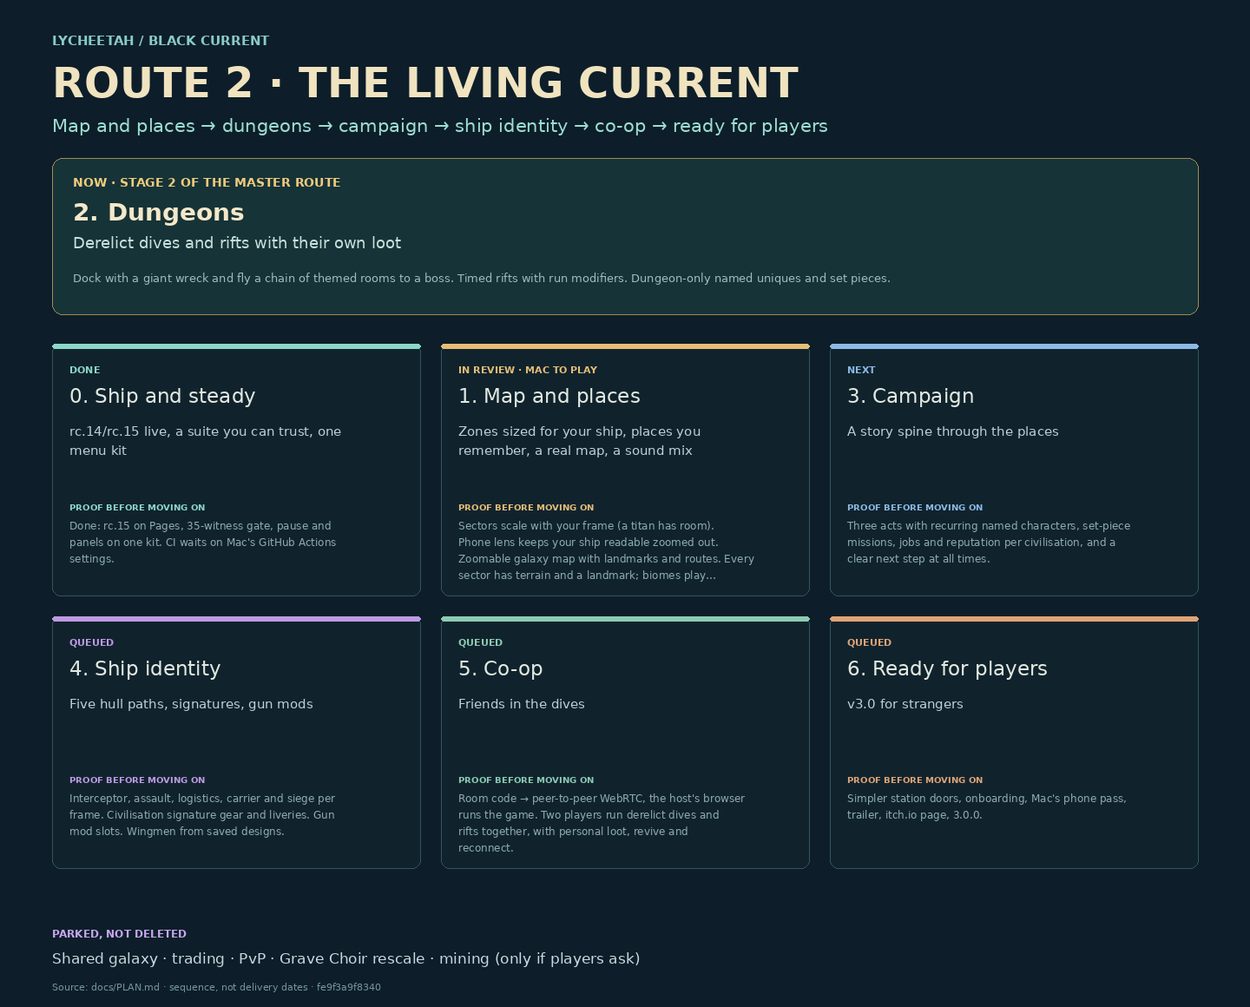
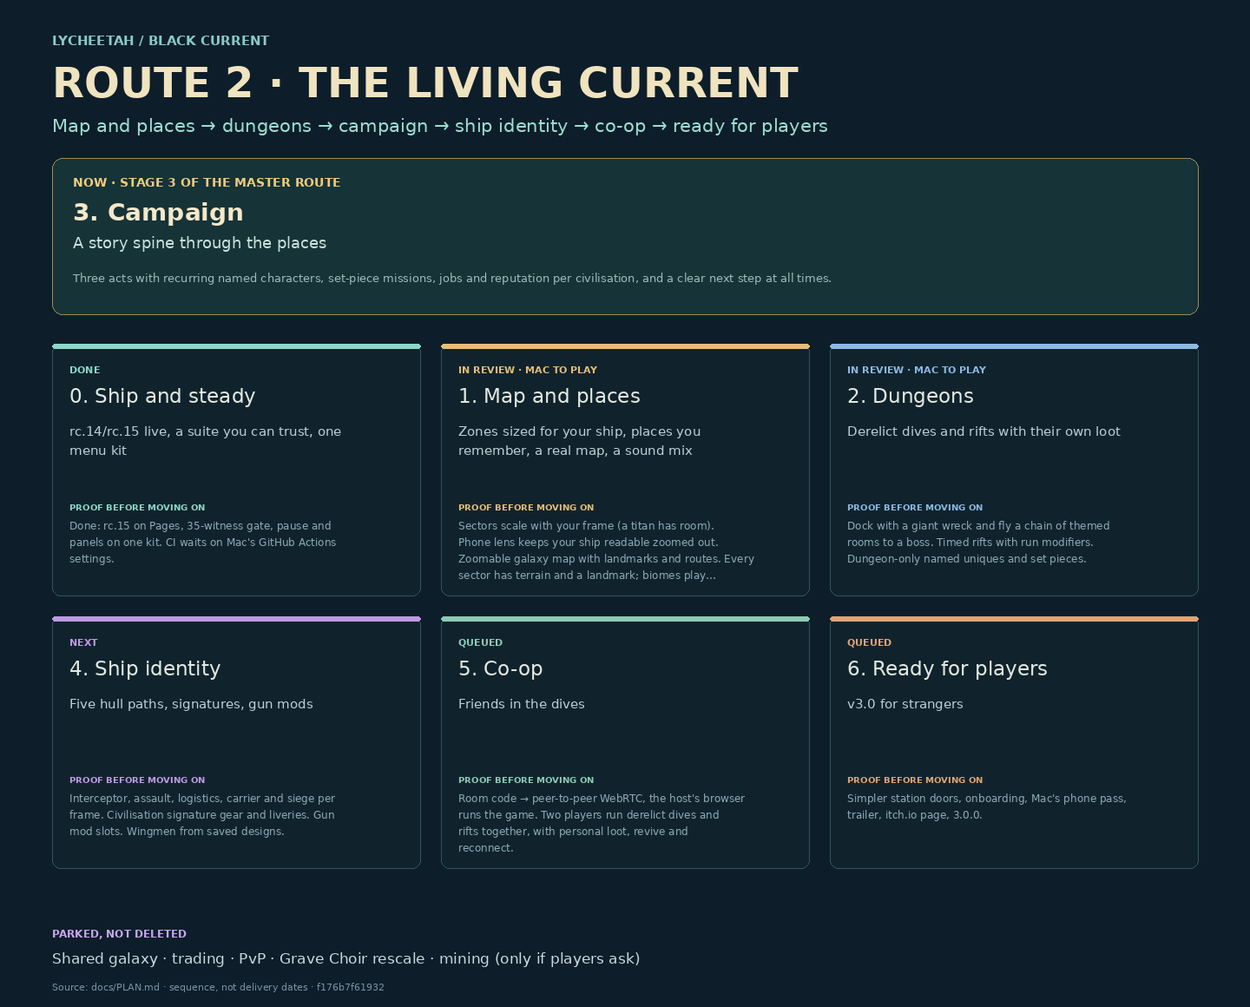
Build the 2.14.0-rc.17 dungeons preview candidate
Version 2.14.0-rc.17 and cache 20261029s72 across index.html, package.json
and package-lock. In-game notes gain an rc.17 section (derelict dives, rifts,
dungeon loot) above rc.16, now h4. CHANGELOG records it; PLAN puts Stage 2
in review. Gate: 43/43 green (boss-scenes and phone-layout passed on retry).

Claude-Session: https://claude.ai/code/session_01KZmWTsz9sR1w1zFVsVwU6C

diff --git a/index.html b/index.html
@@ -11,33 +11,33 @@
   <link rel="preconnect" href="https://fonts.googleapis.com">
   <link rel="preconnect" href="https://fonts.gstatic.com" crossorigin>
   <link href="https://fonts.googleapis.com/css2?family=Outfit:wght@300;400;600;700;800&family=Space+Grotesk:wght@400;600;700&display=swap" rel="stylesheet">
-  <link rel="stylesheet" href="css/style.css?v=20261029s71">
+  <link rel="stylesheet" href="css/style.css?v=20261029s72">
   <!-- Black Current lives in its own sheet: the 779-line original stays untouched
        and this whole pass is removable by deleting one <link>. -->
-  <link rel="stylesheet" href="css/black-current.css?v=20261029s71">
-  <link rel="stylesheet" href="css/workshop.css?v=20261029s71">
-  <link rel="stylesheet" href="css/vibe.css?v=20261029s71">
-  <link rel="stylesheet" href="css/menu.css?v=20261029s71">
-  <link rel="stylesheet" href="css/talents.css?v=20261029s71">
-  <link rel="stylesheet" href="css/phone.css?v=20261029s71">
-  <link rel="stylesheet" href="css/armory.css?v=20261029s71">
-  <link rel="stylesheet" href="css/ship-identity.css?v=20261029s71">
-  <link rel="stylesheet" href="css/workshop-catalog.css?v=20261029s71">
-  <link rel="stylesheet" href="css/novice-fleet.css?v=20261029s71">
-  <link rel="stylesheet" href="css/modular-yard.css?v=20261029s71">
-  <link rel="stylesheet" href="css/modular-phone.css?v=20261029s71">
-  <link rel="stylesheet" href="css/expedition.css?v=20261029s71">
-  <link rel="stylesheet" href="css/hud-layout.css?v=20261029s71">
-  <link rel="stylesheet" href="css/hangar-ui.css?v=20261029s71">
-  <link rel="stylesheet" href="css/journey.css?v=20261029s71">
-  <link rel="stylesheet" href="css/equipment-codex.css?v=20261029s71">
-  <link rel="stylesheet" href="css/quartermaster.css?v=20261029s71">
-  <link rel="stylesheet" href="css/progression-path.css?v=20261029s71">
-  <link rel="stylesheet" href="css/boss-scenes.css?v=20261029s71">
-  <link rel="stylesheet" href="css/combat-feel.css?v=20261029s71">
-  <link rel="stylesheet" href="css/service-menus.css?v=20261029s71">
-  <link rel="stylesheet" href="css/ui-kit.css?v=20261029s71">
-  <link rel="stylesheet" href="css/star-map.css?v=20261029s71">
+  <link rel="stylesheet" href="css/black-current.css?v=20261029s72">
+  <link rel="stylesheet" href="css/workshop.css?v=20261029s72">
+  <link rel="stylesheet" href="css/vibe.css?v=20261029s72">
+  <link rel="stylesheet" href="css/menu.css?v=20261029s72">
+  <link rel="stylesheet" href="css/talents.css?v=20261029s72">
+  <link rel="stylesheet" href="css/phone.css?v=20261029s72">
+  <link rel="stylesheet" href="css/armory.css?v=20261029s72">
+  <link rel="stylesheet" href="css/ship-identity.css?v=20261029s72">
+  <link rel="stylesheet" href="css/workshop-catalog.css?v=20261029s72">
+  <link rel="stylesheet" href="css/novice-fleet.css?v=20261029s72">
+  <link rel="stylesheet" href="css/modular-yard.css?v=20261029s72">
+  <link rel="stylesheet" href="css/modular-phone.css?v=20261029s72">
+  <link rel="stylesheet" href="css/expedition.css?v=20261029s72">
+  <link rel="stylesheet" href="css/hud-layout.css?v=20261029s72">
+  <link rel="stylesheet" href="css/hangar-ui.css?v=20261029s72">
+  <link rel="stylesheet" href="css/journey.css?v=20261029s72">
+  <link rel="stylesheet" href="css/equipment-codex.css?v=20261029s72">
+  <link rel="stylesheet" href="css/quartermaster.css?v=20261029s72">
+  <link rel="stylesheet" href="css/progression-path.css?v=20261029s72">
+  <link rel="stylesheet" href="css/boss-scenes.css?v=20261029s72">
+  <link rel="stylesheet" href="css/combat-feel.css?v=20261029s72">
+  <link rel="stylesheet" href="css/service-menus.css?v=20261029s72">
+  <link rel="stylesheet" href="css/ui-kit.css?v=20261029s72">
+  <link rel="stylesheet" href="css/star-map.css?v=20261029s72">
   <meta name="apple-mobile-web-app-capable" content="yes">
   <meta name="apple-mobile-web-app-status-bar-style" content="black-translucent">
 </head>
@@ -55,7 +55,7 @@
           <div class="tm-kicker">A SOVEREIGN ECLIPSE STORY</div>
           <h1 class="tm-word">BLACK <span>CURRENT</span></h1>
           <p class="tm-tag">Build a ship from parts. Tear theirs apart. Fly home with the salvage.</p>
-          <p class="tm-build" id="build-version">2.13.0-rc.16 · Map and places (preview)</p>
+          <p class="tm-build" id="build-version">2.14.0-rc.17 · Dungeons (preview)</p>
         </div>
         <div id="title-continue-card" class="tm-continue" style="display:none;"></div>
         <nav class="tm-doors" aria-label="Main menu">
@@ -441,11 +441,11 @@
        campaign.js is FIRST because it owns the one save document every other
        system reads. garage.js is LAST because engine.js constructs and starts
        the loop at parse time, so `window.engine` only exists after it. -->
-  <script src="js/tuning.js?v=20261029s71"></script>
-  <script src="js/forge-reset.js?v=20261029s71"></script>
-  <script src="js/campaign.js?v=20261029s71"></script>
-  <script src="js/sound.js?v=20261029s71"></script>
-  <script src="js/particles.js?v=20261029s71"></script>
+  <script src="js/tuning.js?v=20261029s72"></script>
+  <script src="js/forge-reset.js?v=20261029s72"></script>
+  <script src="js/campaign.js?v=20261029s72"></script>
+  <script src="js/sound.js?v=20261029s72"></script>
+  <script src="js/particles.js?v=20261029s72"></script>
   <!-- Art pack interpreter: shaders.js calls into `packRenderer` at draw time,
        so it must be defined first. Default is legacy — loading this changes
        nothing until a pack is selected. -->
@@ -457,133 +457,133 @@
        touching a single draw call.
        ⚖ The files are not deleted, they are parked in `_retired/` — tag, don't
        rm, because an untracked file cannot be restored by git.
-  <script src="js/packs.js?v=20261029s71"></script> -->
-  <script src="js/shaders.js?v=20261029s71"></script>
-  <script src="js/map.js?v=20261029s71"></script>
+  <script src="js/packs.js?v=20261029s72"></script> -->
+  <script src="js/shaders.js?v=20261029s72"></script>
+  <script src="js/map.js?v=20261029s72"></script>
   <!-- The sector's landmarks, salvage and bearing. MUST load before engine.js:
        `loadChamberEntities()` asks it where to put the hostiles. It wraps its
        two draw calls on `load`, after everything it wraps is constructed. -->
-  <script src="js/sectors.js?v=20261029s71"></script>
-  <script src="js/weapons.js?v=20261029s71"></script>
-  <script src="js/ai.js?v=20261029s71"></script>
-  <script src="js/progression.js?v=20261029s71"></script>
+  <script src="js/sectors.js?v=20261029s72"></script>
+  <script src="js/weapons.js?v=20261029s72"></script>
+  <script src="js/ai.js?v=20261029s72"></script>
+  <script src="js/progression.js?v=20261029s72"></script>
   <!-- ⚠ fleet.js MUST load before designer.js: the organelle catalogue and the
        GP cost curve are read from it at designer construction time. -->
-  <script src="js/fleet.js?v=20261029s71"></script>
-  <script src="js/designer.js?v=20261029s71"></script>
+  <script src="js/fleet.js?v=20261029s72"></script>
+  <script src="js/designer.js?v=20261029s72"></script>
   <!-- Energy triage: defines `reactor`, which engine.js reads three times.
        Must load BEFORE engine.js, same as every other global here. -->
-  <script src="js/energy.js?v=20261029s71"></script>
-  <script src="js/feel.js?v=20261029s71"></script>
+  <script src="js/energy.js?v=20261029s72"></script>
+  <script src="js/feel.js?v=20261029s72"></script>
   <!-- Per-socket gunnery: defines `hardpoints`, which engine.js reads in its
        aim step and in shootPrimary(). Must load BEFORE engine.js, same as
        every other global here. Owns its own input and HUD. -->
-  <script src="js/hardpoints.js?v=20261029s71"></script>
-  <script src="js/armory.js?v=20261029s71"></script>
-  <script src="js/arsenal.js?v=20261029s71"></script>
-  <script src="js/accessible-progression.js?v=20261029s71"></script>
-  <script src="js/starter-journey.js?v=20261029s71"></script>
-  <script src="js/contacts.js?v=20261029s71"></script>
+  <script src="js/hardpoints.js?v=20261029s72"></script>
+  <script src="js/armory.js?v=20261029s72"></script>
+  <script src="js/arsenal.js?v=20261029s72"></script>
+  <script src="js/accessible-progression.js?v=20261029s72"></script>
+  <script src="js/starter-journey.js?v=20261029s72"></script>
+  <script src="js/contacts.js?v=20261029s72"></script>
   <!-- Dialog Escape guards register before the engine; installation waits for load. -->
-  <script src="js/wallet-panel.js?v=20261029s71"></script>
-  <script src="js/hangar-ui.js?v=20261029s71"></script>
-  <script src="js/equipment-codex.js?v=20261029s71"></script>
-  <script src="js/engine.js?v=20261029s71"></script>
-  <script src="js/garage.js?v=20261029s71"></script>
+  <script src="js/wallet-panel.js?v=20261029s72"></script>
+  <script src="js/hangar-ui.js?v=20261029s72"></script>
+  <script src="js/equipment-codex.js?v=20261029s72"></script>
+  <script src="js/engine.js?v=20261029s72"></script>
+  <script src="js/garage.js?v=20261029s72"></script>
   <!-- LAST ON PURPOSE. sprites.js WRAPS fluidShader.drawOrganismMembrane and
        reads hardpoints._turrets, so both must already exist when it installs. -->
-  <script src="js/sprites.js?v=20261029s71"></script>
+  <script src="js/sprites.js?v=20261029s72"></script>
   <!-- The fitting bay (B). AFTER sprites.js: it reads `sprites.byType` to show
        the castings, and re-attaches saved plating on `load`. Builds its own DOM
        and stylesheet, so there is no markup for it above. -->
-  <script src="js/bay.js?v=20261029s71"></script>
+  <script src="js/bay.js?v=20261029s72"></script>
   <!-- THE SHIPYARD [Y] — Mac's ship design tool. Loads LAST because it reads
        fleet.equips() and WEAPON_TYPES, and registers his saved hulls back into
        the (empty) FLEET_HULLS on `load`. ⭐ Its EXPORT is the literal fleet.js
        entry: the export format IS the file format, so the roster cannot split. -->
-  <script src="js/shipyard.js?v=20261029s71"></script>
-  <script src="js/ship-identity.js?v=20261029s71"></script>
-  <script src="js/workshop-catalog.js?v=20261029s71"></script>
-  <script src="js/shipyard-ui.js?v=20261029s71"></script>
-  <script src="js/workshop-library.js?v=20261029s71"></script>
-  <script src="js/shipyard-placement.js?v=20261029s71"></script>
-  <script src="js/interface.js?v=20261029s71"></script>
-  <script src="js/gravechoir.js?v=20261029s71"></script>
-  <script src="js/hunt.js?v=20261029s71"></script>
-  <script src="js/contracts.js?v=20261029s71"></script>
-  <script src="js/bosses.js?v=20261029s71"></script>
-  <script src="js/look.js?v=20261029s71"></script>
-  <script src="js/wreck.js?v=20261029s71"></script>
+  <script src="js/shipyard.js?v=20261029s72"></script>
+  <script src="js/ship-identity.js?v=20261029s72"></script>
+  <script src="js/workshop-catalog.js?v=20261029s72"></script>
+  <script src="js/shipyard-ui.js?v=20261029s72"></script>
+  <script src="js/workshop-library.js?v=20261029s72"></script>
+  <script src="js/shipyard-placement.js?v=20261029s72"></script>
+  <script src="js/interface.js?v=20261029s72"></script>
+  <script src="js/gravechoir.js?v=20261029s72"></script>
+  <script src="js/hunt.js?v=20261029s72"></script>
+  <script src="js/contracts.js?v=20261029s72"></script>
+  <script src="js/bosses.js?v=20261029s72"></script>
+  <script src="js/look.js?v=20261029s72"></script>
+  <script src="js/wreck.js?v=20261029s72"></script>
   <!-- F3b: the galaxy: systems, jump portals, hubs, weird-system rules. After wreck.js
        (it wraps engine.playerRespawn and sectorField) and before menu.js (Continue reads it). -->
-  <script src="js/galaxy.js?v=20261029s71"></script>
+  <script src="js/galaxy.js?v=20261029s72"></script>
   <!-- F4: metal, docking, market, structures, raids. After galaxy.js (beacons are portals). -->
-  <script src="js/hubs.js?v=20261029s71"></script>
+  <script src="js/hubs.js?v=20261029s72"></script>
   <!-- F7: roles + oddities (drone bays, siphons, wing escorts, menders). -->
-  <script src="js/roles.js?v=20261029s71"></script>
+  <script src="js/roles.js?v=20261029s72"></script>
   <!-- F1: pause, title doors, settings. LAST: it wraps garage.launch and reads every overlay. -->
-  <script src="js/menu.js?v=20261029s71"></script>
-  <script src="js/phone-ui.js?v=20261029s71"></script>
-  <script src="js/loot.js?v=20261029s71"></script>
-  <script src="js/quirks.js?v=20261029s71"></script>
-  <script src="js/soundscape.js?v=20261029s71"></script>
-  <script src="js/quirk-art.js?v=20261029s71"></script>
-  <script src="js/atmosphere.js?v=20261029s71"></script>
-  <script src="js/service-icons.js?v=20261029s71"></script>
-  <script src="js/pilot.js?v=20261029s71"></script>
-  <script src="js/first-expedition.js?v=20261029s71"></script>
-  <script src="js/vows.js?v=20261029s71"></script>
-  <script src="js/expeditions.js?v=20261029s71"></script>
-  <script src="js/fresh-campaign.js?v=20261029s71"></script>
-  <script src="js/wallet-ui.js?v=20261029s71"></script>
-  <script src="js/reactor-training.js?v=20261029s71"></script>
-  <script src="js/captain-talents.js?v=20261029s71"></script>
-  <script src="js/canon.js?v=20261029s71"></script>
-  <script src="js/modular-ships.js?v=20261029s71"></script>
-  <script src="js/section-art.js?v=20261029s71"></script>
-  <script src="js/turret-art.js?v=20261029s71"></script>
-  <script src="js/faction-art.js?v=20261029s71"></script>
-  <script src="js/topdown-kit.js?v=20261029s71"></script>
-  <script src="js/modular-yard.js?v=20261029s71"></script>
-  <script src="js/boss-scenes.js?v=20261029s71"></script>
-  <script src="js/holo-test.js?v=20261029s71"></script>
-  <script src="js/civilisations.js?v=20261029s71"></script>
-  <script src="js/novice-ships.js?v=20261029s71"></script>
-  <script src="js/faction-fleets.js?v=20261029s71"></script>
-  <script src="js/pve-frontier.js?v=20261029s71"></script>
-  <script src="js/recovered-fittings.js?v=20261029s71"></script>
-  <script src="js/battery-audio.js?v=20261029s71"></script>
-  <script src="js/travel.js?v=20261029s71"></script>
-  <script src="js/render-budget.js?v=20261029s71"></script>
-  <script src="js/navigation-hud.js?v=20261029s71"></script>
-  <script src="js/encounter-readability.js?v=20261029s71"></script>
-  <script src="js/modular-phone.js?v=20261029s71"></script>
-  <script src="js/view-controls.js?v=20261029s71"></script>
-  <script src="js/station-grid.js?v=20261029s71"></script>
-  <script src="js/quartermaster.js?v=20261029s71"></script>
-  <script src="js/progression-path.js?v=20261029s71"></script>
-  <script src="js/salvage-tides.js?v=20261029s71"></script>
-  <script src="js/jelly-shoals.js?v=20261029s71"></script>
-  <script src="js/weapon-balance.js?v=20261029s71"></script>
-  <script src="js/enemy-combat.js?v=20261029s71"></script>
-  <script src="js/target-lock.js?v=20261029s71"></script>
-  <script src="js/hostile-skins.js?v=20261029s71"></script>
-  <script src="js/enemy-wings.js?v=20261029s71"></script>
-  <script src="js/combat-feel.js?v=20261029s71"></script>
-  <script src="js/current-soundscape.js?v=20261029s71"></script>
-  <script src="js/combat-scaling.js?v=20261029s71"></script>
-  <script src="js/fleet-formation.js?v=20261029s71"></script>
-  <script src="js/flight-hud.js?v=20261029s71"></script>
-  <script src="js/wide-dark.js?v=20261029s71"></script>
-  <script src="js/capital-endgame.js?v=20261029s71"></script>
-  <script src="js/room-scale.js?v=20261029s71"></script>
-  <script src="js/ship-lens.js?v=20261029s71"></script>
-  <script src="js/star-map.js?v=20261029s71"></script>
-  <script src="js/terrain.js?v=20261029s71"></script>
-  <script src="js/derelicts.js?v=20261029s71"></script>
-  <script src="js/derelict-loot.js?v=20261029s71"></script>
-  <script src="js/rifts.js?v=20261029s71"></script>
-  <script src="js/sound-mix.js?v=20261029s71"></script>
-  <script src="js/ui-kit.js?v=20261029s71"></script>
+  <script src="js/menu.js?v=20261029s72"></script>
+  <script src="js/phone-ui.js?v=20261029s72"></script>
+  <script src="js/loot.js?v=20261029s72"></script>
+  <script src="js/quirks.js?v=20261029s72"></script>
+  <script src="js/soundscape.js?v=20261029s72"></script>
+  <script src="js/quirk-art.js?v=20261029s72"></script>
+  <script src="js/atmosphere.js?v=20261029s72"></script>
+  <script src="js/service-icons.js?v=20261029s72"></script>
+  <script src="js/pilot.js?v=20261029s72"></script>
+  <script src="js/first-expedition.js?v=20261029s72"></script>
+  <script src="js/vows.js?v=20261029s72"></script>
+  <script src="js/expeditions.js?v=20261029s72"></script>
+  <script src="js/fresh-campaign.js?v=20261029s72"></script>
+  <script src="js/wallet-ui.js?v=20261029s72"></script>
+  <script src="js/reactor-training.js?v=20261029s72"></script>
+  <script src="js/captain-talents.js?v=20261029s72"></script>
+  <script src="js/canon.js?v=20261029s72"></script>
+  <script src="js/modular-ships.js?v=20261029s72"></script>
+  <script src="js/section-art.js?v=20261029s72"></script>
+  <script src="js/turret-art.js?v=20261029s72"></script>
+  <script src="js/faction-art.js?v=20261029s72"></script>
+  <script src="js/topdown-kit.js?v=20261029s72"></script>
+  <script src="js/modular-yard.js?v=20261029s72"></script>
+  <script src="js/boss-scenes.js?v=20261029s72"></script>
+  <script src="js/holo-test.js?v=20261029s72"></script>
+  <script src="js/civilisations.js?v=20261029s72"></script>
+  <script src="js/novice-ships.js?v=20261029s72"></script>
+  <script src="js/faction-fleets.js?v=20261029s72"></script>
+  <script src="js/pve-frontier.js?v=20261029s72"></script>
+  <script src="js/recovered-fittings.js?v=20261029s72"></script>
+  <script src="js/battery-audio.js?v=20261029s72"></script>
+  <script src="js/travel.js?v=20261029s72"></script>
+  <script src="js/render-budget.js?v=20261029s72"></script>
+  <script src="js/navigation-hud.js?v=20261029s72"></script>
+  <script src="js/encounter-readability.js?v=20261029s72"></script>
+  <script src="js/modular-phone.js?v=20261029s72"></script>
+  <script src="js/view-controls.js?v=20261029s72"></script>
+  <script src="js/station-grid.js?v=20261029s72"></script>
+  <script src="js/quartermaster.js?v=20261029s72"></script>
+  <script src="js/progression-path.js?v=20261029s72"></script>
+  <script src="js/salvage-tides.js?v=20261029s72"></script>
+  <script src="js/jelly-shoals.js?v=20261029s72"></script>
+  <script src="js/weapon-balance.js?v=20261029s72"></script>
+  <script src="js/enemy-combat.js?v=20261029s72"></script>
+  <script src="js/target-lock.js?v=20261029s72"></script>
+  <script src="js/hostile-skins.js?v=20261029s72"></script>
+  <script src="js/enemy-wings.js?v=20261029s72"></script>
+  <script src="js/combat-feel.js?v=20261029s72"></script>
+  <script src="js/current-soundscape.js?v=20261029s72"></script>
+  <script src="js/combat-scaling.js?v=20261029s72"></script>
+  <script src="js/fleet-formation.js?v=20261029s72"></script>
+  <script src="js/flight-hud.js?v=20261029s72"></script>
+  <script src="js/wide-dark.js?v=20261029s72"></script>
+  <script src="js/capital-endgame.js?v=20261029s72"></script>
+  <script src="js/room-scale.js?v=20261029s72"></script>
+  <script src="js/ship-lens.js?v=20261029s72"></script>
+  <script src="js/star-map.js?v=20261029s72"></script>
+  <script src="js/terrain.js?v=20261029s72"></script>
+  <script src="js/derelicts.js?v=20261029s72"></script>
+  <script src="js/derelict-loot.js?v=20261029s72"></script>
+  <script src="js/rifts.js?v=20261029s72"></script>
+  <script src="js/sound-mix.js?v=20261029s72"></script>
+  <script src="js/ui-kit.js?v=20261029s72"></script>
 </body>
 </html>

diff --git a/js/menu.js b/js/menu.js
@@ -326,7 +326,16 @@
 
   function buildChangelog(body) {
     // Route 2 notes (docs/PLAN.md) first; earlier builds follow underneath.
-    const placesHead=document.createElement('h3');placesHead.textContent='2.13.0-rc.16 · Map and places (preview) · 29 October 2026';body.append(placesHead);
+    const dungeonHead=document.createElement('h3');dungeonHead.textContent='2.14.0-rc.17 · Dungeons (preview) · 29 October 2026';body.append(dungeonHead);
+    const dungeonList=document.createElement('ul');
+    for(const text of[
+      'Derelict dives: dead titans drift in the wide dark (one in your home system\'s second ring). Fly to one and press E to board. Clear a chain of rooms inside: a turret corridor, a hangar whose bays launch drones, a reactor whose pulse you must hide from behind walls, and a vault whose locks are sealed until their guards fall. Then beat the warden and open the hold.',
+      'Rifts: a tear in each system (yours is in the third ring). Five escalating waves against a 150-second clock, with a modifier that changes every 20 minutes: Overcharged, Glass, Splitters, Shieldless or Volatile.',
+      'Dungeon loot, never sold in shops: five named uniques (Stormcaller, Widow\'s Lance, Frostbrand, Hunter\'s Oath, Grave Chorus), each with a signature trait and 25% more damage. Two three-piece sets: the Warden\'s Bulwark (+15% hull, +25% shields) and the Riftwalker (+15% thrust, shorter ability cooldowns).',
+      'The star map marks derelicts and rifts. Fixed: the equipment shop no longer lists salvage-only gear you don\'t own.'
+    ]){const li=document.createElement('li');li.textContent=text;dungeonList.append(li);}
+    body.append(dungeonList);
+    const placesHead=document.createElement('h4');placesHead.textContent='2.13.0-rc.16 · Map and places (preview) · 29 October 2026';body.append(placesHead);
     const placesList=document.createElement('ul');
     for(const text of[
       'Zones are sized for the ship you fly: a titan gets about 12 hull-lengths of room, even at home. Stations grow so big hulls berth alongside, the camera keeps your hull on screen, and cruise is stronger on bigger frames.',

diff --git a/docs/PLAN.md b/docs/PLAN.md
@@ -205,8 +205,8 @@ Updated: 2026-10-29T10:00:00+00:00
 | --- | --- | --- | --- |
 | stage-0-ship | done | rc.14/rc.15 live, trustworthy suite, one menu kit | rc.15 live (gh-pages 46dd3db from 15cdd42). Gate: 35 witnesses green. Suite 34/46. CI **blocked** on Mac's GitHub Actions settings. Named debt (red on main too): faction-fleets, first-expedition, gentle, hangar-ui, hubs, phone-fitting, refinement, rookie-balance, sprites, vitals, site (needs .site-build), release-candidate (Mac's incoming art). |
 | stage-1-places | review | Zones sized for your ship, phone lens, galaxy map, terrain and landmarks, sound mix | All five landed with witnesses in the gate: room scale (2f454bd; titan home sector 11,600 px, camera fit, stations berth titans, cruise by frame), ship lens (10982cd), star map (2039a33), terrain and landmarks (54e253d; five biomes, rocks/ice/wrecks solid and cover, gas hides you, current lanes, black-hole pull, ruins, buoys), sound pass (d2cd44d; sub rumble 94%→11% of energy, guns forward, a bed per region). Titan fight measured: terrain costs ~2 ms of render at titan zoom (software rendering), simulation unchanged. rc.16 published (gh-pages d2e319c from 73a00d8; 14/14 live files match); Mac's ears and phone decide the mix and lens. |
-| stage-2-dungeons | running | Derelict dives, rifts, named uniques and sets | Started 2026-10-29 after the rc.16 publish. |
-| stage-3-campaign | queued | Three acts, characters, missions, jobs and reputation | `witness-campaign`. |
+| stage-2-dungeons | review | Derelict dives, rifts, named uniques and sets | All landed with witnesses in the gate: derelict dives (b653121; dead titans you board, corridor/hangar/reactor/vault rooms with walls and rules, the warden, the hold), dungeon loot (f4f80d6; five named uniques at five classes, the Warden's Bulwark set; shop no longer lists salvage-only gear), rifts (40302e5; five timed waves, a modifier per epoch, the Riftwalker set). rc.17 candidate next. |
+| stage-3-campaign | queued | Three acts, characters, missions, jobs and reputation | Next after the rc.17 publish. `witness-campaign`. |
 | stage-4-identity | queued | Hull paths, signatures, gun mods, wingmen | `witness-identity-paths`, `witness-wingmen`. |
 | stage-5-coop | queued | Two players in dives and rifts, peer-to-peer | Mac confirms the PeerJS relay; `witness-coop`. |
 | stage-6-players | queued | v3.0 for strangers | Station doors, onboarding, phone pass, trailer, itch.io, 3.0.0. |

diff --git a/CHANGELOG.md b/CHANGELOG.md
@@ -1,5 +1,21 @@
 # Changelog
 
+## 2.14.0-rc.17 — Dungeons preview (2026-10-29)
+
+Candidate: not yet published. Cache 20261029s72. Route 2 Stage 2 ("Dungeons").
+
+- **Derelict dives.** Dead-titan landmarks are derelicts you can board. Two are seeded per system, plus one in the home system's second ring.
+  - Rooms: corridor (turrets), hangar (launch bays), reactor (a pulse you hide from behind walls), vault (sealed locks).
+  - Then the warden, who calls escorts at two-thirds and one-third hull.
+  - The hold pays a relic gun, metal and dungeon hardware once per derelict per 30 minutes.
+- **Rifts.** One per system: five waves against a 150 s clock. Each 20-minute epoch rolls one modifier: Overcharged, Glass, Splitters, Shieldless or Volatile. The cache pays Riftwalker hardware.
+- **Dungeon loot.**
+  - Five named uniques (one per gun family, every class, +25% damage, signature trait).
+  - Warden's Bulwark (+15% hull, +25% shield pool).
+  - Riftwalker (+15% thrust, 20% shorter ability cooldowns).
+- **Fixes.** The equipment shop only lists salvage-only gear you own. Expedition signals stay outside dives and rifts.
+- **Witnesses.** dungeons, dungeon-loot and rifts join the gate (43 witnesses, all green; boss-scenes and phone-layout passed on retry).
+
 ## 2.13.0-rc.16 — Map and places preview (2026-10-29)
 
 Published: source 73a00d8, Pages d2e319c, cache 20261029s71. Pages built, and 14/14 changed
